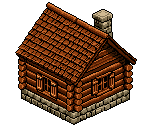
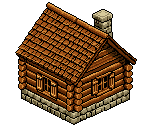
G1: even out the colours of the PixelLab set by code
tools/harmonize_pixellab.py pulls each material (greys, red, dark wood,
straw, green, blue slate) of every building to the set's common hue and
saturation, each building's brightness three quarters of the way to the
set's average, and warms all greys the same; sites and backs take their
finished building's correction. Owner's survey 2026-11-07.

Claude-Session: https://claude.ai/code/session_01Ves32FV77dAnaC74UCtajx

diff --git a/tools/harmonize_pixellab.py b/tools/harmonize_pixellab.py
@@ -1,0 +1,141 @@
+#!/usr/bin/env python3
+"""Evens out the colours of a set of PixelLab buildings (G1, owner's decision 2026-11-07:
+the log hut came out much darker than the others, the plaster hut and the quarry nearly
+grey, the camp very orange).
+
+Every pixel falls into a material by its hue and brightness: grey stone and plaster, red
+brick and tiles, dark wood, straw and light wood, green, blue slate. Over the whole set we
+measure each material's average hue and saturation; then every building is pulled towards
+them (hue moved to the set's hue, saturation scaled towards it), so the logs of the camp
+and of the woodcutter look cut in one forest. Finally the building's overall brightness is
+pulled three quarters of the way towards the set's average, and every grey gets the
+same warm tint. Shading inside each material (value) is kept.
+
+A construction stage or the back of a house takes the correction of its finished building
+(the same group), so a site does not change colour when the building is finished.
+
+Used by tools/build_pixellab_buildings.py; harmonize(groups) takes
+{group: [(path_in, path_out), ...]} with the finished building first in each group."""
+import colorsys
+import math
+
+from PIL import Image
+
+HUE_STRENGTH = 1.0
+HUE_LIMIT = 15.0        # degrees a material's hue may move
+SAT_STRENGTH = 0.7
+SAT_LIMITS = (0.6, 1.5)
+VALUE_STRENGTH = 0.75
+# Greys (stone, plaster, slate) get a warm tint, the same for every building, so a stone
+# hut does not look cold and blue next to the timber ones (hue in degrees, added saturation).
+GREY_HUE = 35.0
+GREY_WARMTH = 0.05
+
+
+def material(h, s, v):
+    """Material of a pixel (h in degrees, s and v 0..1)."""
+    if s < 0.15:
+        return "grey"
+    if h < 15 or h >= 335:
+        return "red"
+    if h < 60:
+        return "wood" if v < 0.62 else "straw"
+    if h < 180:
+        return "green"
+    return "blue"
+
+
+def _pixels(img):
+    for p in img.get_flattened_data():
+        if p[3] > 200:
+            h, s, v = colorsys.rgb_to_hsv(p[0] / 255, p[1] / 255, p[2] / 255)
+            yield h * 360.0, s, v
+
+
+def measure(img):
+    """{material: [sum cos, sum sin, sum sat, count]}, sum of values, pixel count."""
+    stats = {}
+    vsum = 0.0
+    n = 0
+    for h, s, v in _pixels(img):
+        m = stats.setdefault(material(h, s, v), [0.0, 0.0, 0.0, 0])
+        m[0] += math.cos(math.radians(h)) * s
+        m[1] += math.sin(math.radians(h)) * s
+        m[2] += s
+        m[3] += 1
+        vsum += v
+        n += 1
+    return stats, vsum, n
+
+
+def _means(stats):
+    return {k: (math.degrees(math.atan2(m[1], m[0])) % 360.0, m[2] / m[3]) for k, m in stats.items() if m[3] > 0}
+
+
+def _add(total, stats):
+    for k, m in stats.items():
+        t = total.setdefault(k, [0.0, 0.0, 0.0, 0])
+        for i in range(4):
+            t[i] += m[i]
+
+
+def correction(group_stats, set_means, group_value, set_value):
+    """Per material (hue shift in degrees, saturation factor) and the value gamma."""
+    shifts = {}
+    for k, (h, s) in _means(group_stats).items():
+        th, ts = set_means[k]
+        dh = ((th - h + 180.0) % 360.0) - 180.0
+        dh = max(-HUE_LIMIT, min(HUE_LIMIT, dh * HUE_STRENGTH))
+        if k == "grey":
+            dh = 0.0 if s < 0.04 else dh   # pure greys have no hue to move
+        f = (ts / s) if s > 0 else 1.0
+        f = max(SAT_LIMITS[0], min(SAT_LIMITS[1], 1.0 + (f - 1.0) * SAT_STRENGTH))
+        shifts[k] = (dh, f)
+    target = group_value + (set_value - group_value) * VALUE_STRENGTH
+    gamma = math.log(target) / math.log(group_value) if 0 < group_value < 1 and 0 < target < 1 else 1.0
+    return shifts, gamma
+
+
+def apply(img, shifts, gamma):
+    img = img.convert("RGBA")
+    px = img.load()
+    for y in range(img.height):
+        for x in range(img.width):
+            r, g, b, a = px[x, y]
+            if a == 0:
+                continue
+            h, s, v = colorsys.rgb_to_hsv(r / 255, g / 255, b / 255)
+            kind = material(h * 360.0, s, v)
+            if kind == "grey":
+                h = GREY_HUE / 360.0
+                s = min(0.15, s + GREY_WARMTH * (1.0 - s / 0.15))
+            else:
+                dh, f = shifts.get(kind, (0.0, 1.0))
+                h = ((h * 360.0 + dh) % 360.0) / 360.0
+                s = min(1.0, s * f)
+            v = v ** gamma
+            r2, g2, b2 = colorsys.hsv_to_rgb(h, s, v)
+            px[x, y] = (round(r2 * 255), round(g2 * 255), round(b2 * 255), a)
+    return img
+
+
+def harmonize(groups):
+    """groups: {name: [(path_in, path_out), ...]}, the finished building first."""
+    measured = {}
+    total = {}
+    vsum = 0.0
+    n = 0
+    for name, files in groups.items():
+        stats, gv, gn = measure(Image.open(files[0][0]).convert("RGBA"))
+        measured[name] = (stats, gv / max(1, gn))
+        _add(total, stats)
+        vsum += gv
+        n += gn
+    set_means = _means(total)
+    set_value = vsum / max(1, n)
+    for name, files in groups.items():
+        stats, value = measured[name]
+        shifts, gamma = correction(stats, set_means, value, set_value)
+        for path_in, path_out in files:
+            apply(Image.open(path_in), shifts, gamma).save(path_out)
+    return set_means, set_value

diff --git a/tools/build_pixellab_buildings.py b/tools/build_pixellab_buildings.py
@@ -2,8 +2,11 @@
 """Builds the game art of the buildings drawn by PixelLab (G1, ART_SPEC §10.12) from the raw
 PixelLab images kept in tools/pixellab_src/buildings/<id>/ (not imported by Godot).
 
-Every image goes through tools/fit_pixellab_building.py: placed on its footprint with the pivot in the front corner, the production yard
-drawn under it. A construction stage or the back of a house is an edit of its finished
+First the colours of the whole set are evened out (tools/harmonize_pixellab.py, owner's
+decision 2026-11-07): each material pulled to the set's common hue and saturation, each
+building's brightness three quarters of the way to the set's average, greys warmed. Then every image goes through
+tools/fit_pixellab_building.py: placed on its footprint with the pivot in the front corner,
+the production yard drawn under it. A construction stage or the back of a house is an edit of its finished
 building on the same canvas, so it takes the finished building's placement (--like).
 
 Run after changing a raw image or a setting below: python3 tools/build_pixellab_buildings.py
@@ -11,6 +14,10 @@ Run after changing a raw image or a setting below: python3 tools/build_pixellab_
 import os
 import subprocess
 import sys
+import tempfile
+
+sys.path.insert(0, os.path.dirname(os.path.abspath(__file__)))
+from harmonize_pixellab import harmonize  # noqa: E402
 
 ROOT = os.path.dirname(os.path.dirname(os.path.abspath(__file__)))
 SRC = os.path.join(ROOT, "tools", "pixellab_src", "buildings")
@@ -31,8 +38,8 @@ BUILDINGS = {
         # own, inside the 3x3 tiles); the front corner sits at its PIVOT.
         ["--footprint=3,3", "--entrance=1,2", "--pivot=120,190"],
         [("base", "base", {}),
-         ("construction_1", "construction_1", {}),
-         ("construction_2", "construction_2", {})]),
+         ("construction_1", "construction_1", {"like": "base"}),
+         ("construction_2", "construction_2", {"like": "base"})]),
     "hut": (
         ["--footprint=2,2", "--entrance=1,1"],
         [("base", "base", {}),
@@ -60,17 +67,29 @@ BUILDINGS = {
 
 def main():
     only = sys.argv[1:]
-    if not only or "pioneer_camp" in only:
-        subprocess.run([sys.executable, os.path.join(ROOT, "tools", "compose_pixellab_camp.py")],
-                       check=True)
+    subprocess.run([sys.executable, os.path.join(ROOT, "tools", "compose_pixellab_camp.py")],
+                   check=True)
+    # Colours are evened out over the whole set (all buildings, even when only some are
+    # rebuilt), into a temporary copy of the raw images.
+    tmp = tempfile.mkdtemp(prefix="pixellab_")
+    groups = {}
+    for building, (_opts, images) in BUILDINGS.items():
+        os.makedirs(os.path.join(tmp, building), exist_ok=True)
+        for _name, raw, extra in images:
+            key = "%s/%s" % (building, extra.get("like", raw))
+            pair = (os.path.join(SRC, building, raw + ".png"), os.path.join(tmp, building, raw + ".png"))
+            files = groups.setdefault(key, [])
+            if pair not in files:
+                files.insert(0, pair) if "like" not in extra else files.append(pair)
+    harmonize(groups)
     for building, (opts, images) in BUILDINGS.items():
         if only and building not in only:
             continue
         for name, raw, extra in images:
-            args = [sys.executable, FIT, os.path.join(SRC, building, raw + ".png"),
+            args = [sys.executable, FIT, os.path.join(tmp, building, raw + ".png"),
                     os.path.join(OUT, building, name)] + opts + COMMON
             if "like" in extra:
-                args.append("--like=" + os.path.join(SRC, building, extra["like"] + ".png"))
+                args.append("--like=" + os.path.join(tmp, building, extra["like"] + ".png"))
             subprocess.run(args, check=True)
 
 

diff --git a/docs/ART_SPEC.md b/docs/ART_SPEC.md
@@ -480,6 +480,7 @@ Przepływ pracy dla kolejnych partii budynków z PixelLab:
 - **Opis:** zaczyna się od „isometric … 2:1 isometric view from above, two walls visible”, potem materiały, na końcu „warm earthy colors, no ground, no shadow”. **Drzwi:** dom „the wooden front door is in the gable wall facing the lower right”, wąski warsztat „the long side wall with the wooden door faces the lower right, the narrow gable end faces the lower left” (orientacja 0: drzwi na ścianie +x, §7). Pixen lubi dorysować płytę ziemi albo trawy: wtedy „the building stands directly on a transparent background, no ground tile, no grass, no terrain block”.
 - **Przeróbki:** `edit_image_pixen` (1 generacja) na adresie gotowego obrazka. Etap 1: „remove the whole … completely, … only a flat low grey stone foundation outline … wooden stakes with a string, a pile of logs and a stack of planks”. Etap 2: „half-built … bare roof rafters …, scaffolding and a ladder”. Tył domu: „remove the door from the gable wall on the right and fill it with the same …, add a small window there instead”. Mniejszy rozmiar elementu: przeróbka z `width`/`height` mniejszymi od wejścia (model rysuje od nowa, nie skaluje).
 - **Do gry:** surowe obrazki w `tools/pixellab_src/buildings/<id>/<nazwa>.png`, lista w `tools/build_pixellab_buildings.py`, a `tools/fit_pixellab_building.py` usuwa okruchy pikseli (rozjaśnienie z §10.11 wyłączone dla Pixena, decyzja właściciela 2026-11-07: Pixen jest tak jasny jak budynki z kodu; włącza je usunięcie `--no-brighten` z `COMMON`), ustawia budynek na kratkach (środek obrazka nad środkiem obrysu, najniższy piksel 4 px nad przednim rogiem), dorysowuje podwórko warsztatu i zapisuje `<nazwa>.png` z `.json` (pivot w przednim rogu). Etap budowy i tył biorą przesunięcie gotowego budynku (`--like`), więc leżą dokładnie na nim.
+- **Ujednolicenie kolorów** (decyzja właściciela 2026-11-07, `tools/harmonize_pixellab.py`, wołane przez `build_pixellab_buildings.py` dla całego zestawu): piksele dzielą się na materiały (szarości, czerwień, ciemne drewno, słoma i jasne drewno, zieleń, niebieski łupek); odcień i nasycenie każdego materiału budynku dociągamy do średniej całego zestawu, jasność budynku w 3/4 do średniej zestawu, a wszystkie szarości dostają ten sam ciepły odcień. Etapy budowy i tyły biorą korektę swojego gotowego budynku. Cieniowanie zostaje.
 - **Obóz pionierów** jest złożony z osobnych elementów (`tools/compose_pixellab_camp.py`, części w `parts/`), bez własnego gruntu, w rombie 3×3.
 - **Sortowanie:** grafiki są szersze niż z kodu (okap, rekwizyty), więc `test_pixellab_building_art_sorts_correctly` sprawdza każdą z jej prawdziwym pivotem i rozmiarem, także w lustrze.
 - Nie przywracamy tych budynków przez `tools/generate_art.gd`: po nim `git checkout assets/buildings/{pioneer_camp,hut,woodcutter,quarry,fishing_hut}/` albo `python3 tools/build_pixellab_buildings.py`.
